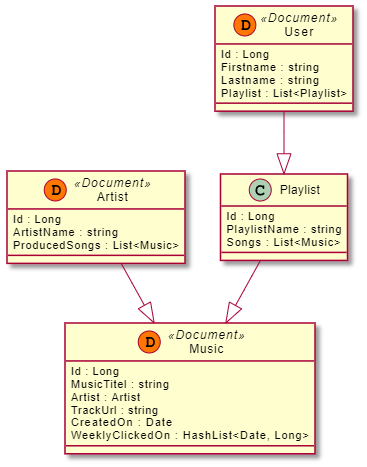
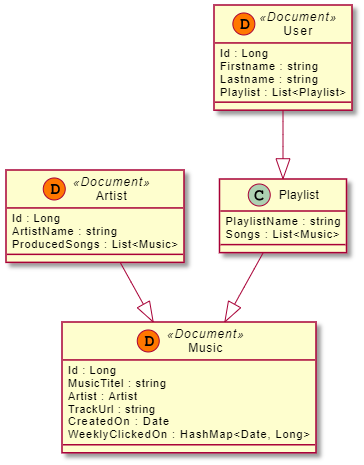
added documents

Changed region(s): [[0.5742, 0.0, 0.9973, 0.6323], [0.1511, 0.6323, 0.9066, 0.9935], [0.0, 0.3613, 0.5137, 0.572]]

diff --git a/Predjeskovic_Microservice_MusicManager/src/main/java/spg/pre/microservices/musicmanager/documents/Persistable.java b/Predjeskovic_Microservice_MusicManager/src/main/java/spg/pre/microservices/musicmanager/documents/Persistable.java
@@ -1,0 +1,29 @@
+package spg.pre.microservices.musicmanager.documents;
+
+import lombok.AccessLevel;
+import lombok.Getter;
+import lombok.NoArgsConstructor;
+import org.springframework.data.annotation.Id;
+
+import java.util.Objects;
+
+@NoArgsConstructor(access = AccessLevel.PROTECTED)
+@Getter
+public class Persistable {
+
+    @Id
+    public Long id;
+
+    @Override
+    public boolean equals(Object o) {
+        if (this == o) return true;
+        if (o == null || getClass() != o.getClass()) return false;
+        Persistable that = (Persistable) o;
+        return Objects.equals(id, that.id);
+    }
+
+    @Override
+    public int hashCode() {
+        return Objects.hash(id);
+    }
+}

diff --git a/Predjeskovic_Microservice_MusicManager/src/main/java/spg/pre/microservices/musicmanager/documents/Music.java b/Predjeskovic_Microservice_MusicManager/src/main/java/spg/pre/microservices/musicmanager/documents/Music.java
@@ -1,0 +1,24 @@
+package spg.pre.microservices.musicmanager.documents;
+
+import lombok.AccessLevel;
+import lombok.AllArgsConstructor;
+import lombok.Getter;
+import lombok.Setter;
+import org.springframework.data.mongodb.core.mapping.Document;
+
+import java.time.LocalDate;
+import java.util.HashMap;
+
+@Document
+@AllArgsConstructor(access = AccessLevel.PUBLIC)
+@Getter
+@Setter
+public class Music extends Persistable{
+
+    public String musicTitle;
+    public Artist artist;
+    public String trackUrl;
+    public LocalDate createdOn;
+    public HashMap<LocalDate,Long> weeklyClickedOn;
+
+}

diff --git a/Predjeskovic_Microservice_MusicManager/src/main/java/spg/pre/microservices/musicmanager/documents/User.java b/Predjeskovic_Microservice_MusicManager/src/main/java/spg/pre/microservices/musicmanager/documents/User.java
@@ -1,0 +1,21 @@
+package spg.pre.microservices.musicmanager.documents;
+
+import lombok.AccessLevel;
+import lombok.AllArgsConstructor;
+import lombok.Getter;
+import lombok.Setter;
+import org.springframework.data.mongodb.core.mapping.Document;
+
+import java.util.List;
+
+@Document
+@AllArgsConstructor(access = AccessLevel.PUBLIC)
+@Getter
+@Setter
+public class User extends Persistable{
+
+    public String firstname;
+    public String lastname;
+    public List<Playlist> playlists;
+
+}

diff --git a/Predjeskovic_Microservice_MusicManager/src/main/java/spg/pre/microservices/musicmanager/documents/Artist.java b/Predjeskovic_Microservice_MusicManager/src/main/java/spg/pre/microservices/musicmanager/documents/Artist.java
@@ -1,0 +1,21 @@
+package spg.pre.microservices.musicmanager.documents;
+
+import lombok.AccessLevel;
+import lombok.AllArgsConstructor;
+import lombok.Getter;
+import lombok.Setter;
+import org.springframework.data.mongodb.core.mapping.Document;
+
+import java.util.List;
+
+@Document
+@AllArgsConstructor(access = AccessLevel.PUBLIC)
+@Getter
+@Setter
+public class Artist extends Persistable {
+
+    public String artistName;
+
+    public List<Music> producedSongs;
+
+}

diff --git a/Predjeskovic_Microservice_MusicManager/src/main/java/spg/pre/microservices/musicmanager/documents/Playlist.java b/Predjeskovic_Microservice_MusicManager/src/main/java/spg/pre/microservices/musicmanager/documents/Playlist.java
@@ -1,0 +1,17 @@
+package spg.pre.microservices.musicmanager.documents;
+
+import lombok.AccessLevel;
+import lombok.AllArgsConstructor;
+import lombok.Getter;
+import lombok.Setter;
+
+import java.util.List;
+
+@AllArgsConstructor(access = AccessLevel.PUBLIC)
+@Getter
+@Setter
+public class Playlist {
+
+    public String playlistName;
+    public List<Music> Songs;
+}
